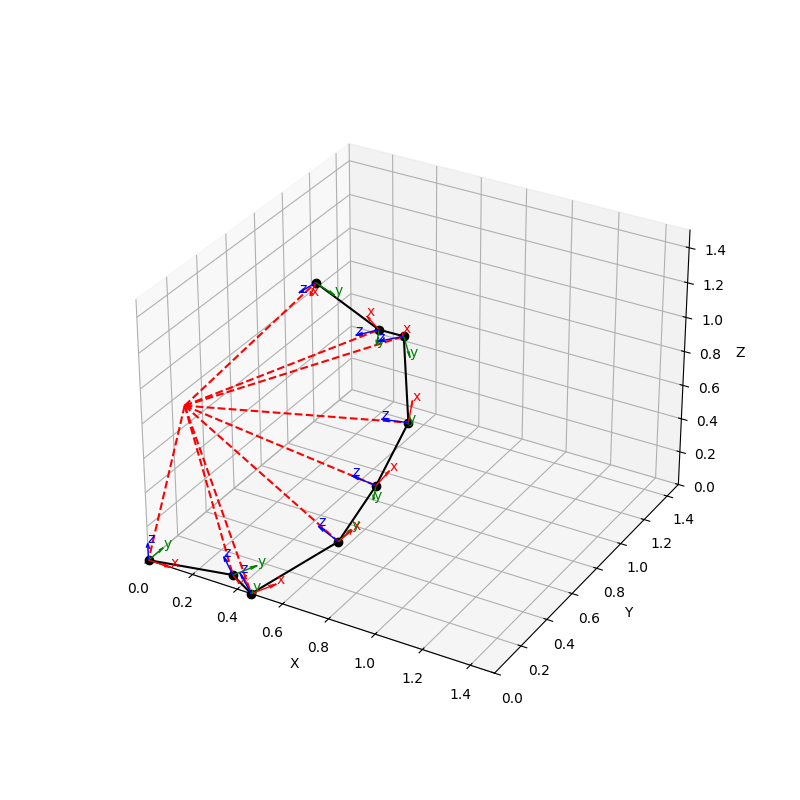
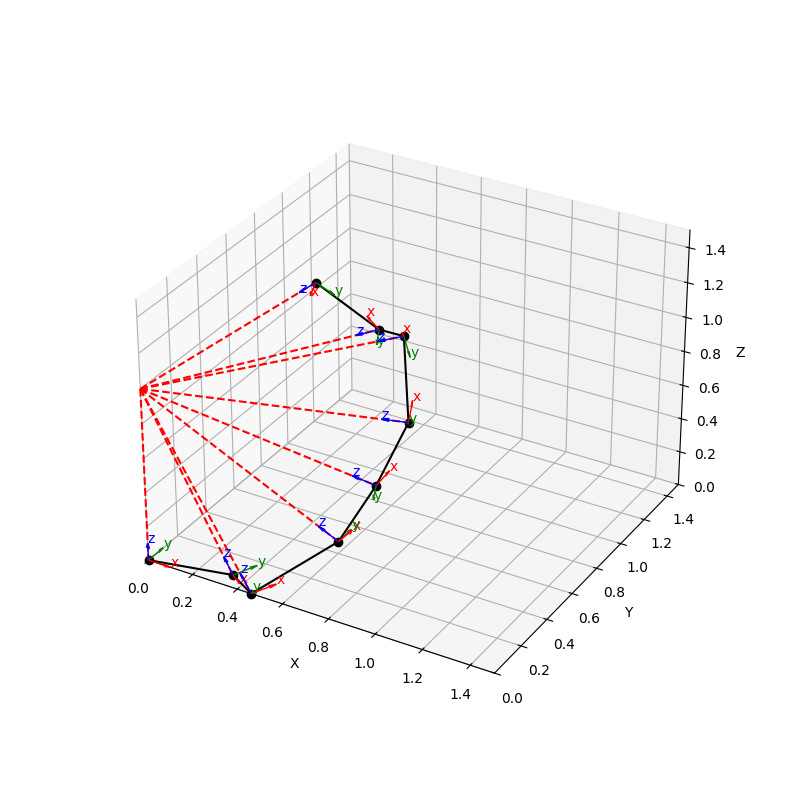
refactiring

diff --git a/fin_transformation.py b/fin_transformation.py
@@ -7,7 +7,6 @@ Theory taken from: FORWARD KINEMATICS: THE DENAVIT-HARTENBERG CONVENTION
 https://users.cs.duke.edu/~brd/Teaching/Bio/asmb/current/Papers/chap3-forward-kinematics.pdf
 
 TODO
-Fin magnitude bug 
 Update geometric parameters calculated automatically (including fold angle) when number of rays is changed
 Replace identity matrix with A0
 Double check matrix product is correct 
@@ -215,25 +214,13 @@ a = 2 * l * sin(alpha/2)
 
 print(f"a = {a}, h = {h}")
 
-
 # 3D cooridinates of the fin base 
-# fin_base = [0.39/2, 0, 0.98]
 fin_base = [a/2, 0, h]
-print(f"fin_base = {fin_base}")
 fin_base.append(1)
-print(f"fin_base = {fin_base}")
 fin_base = np.array(fin_base)
-print(f"fin_base = {fin_base}")
 fin_base = Ry(-alpha/2) @ fin_base
-print(f"fin_base = {fin_base}")
 fin_base = fin_base[:3]
 print(f"fin_base = {fin_base}")
-
-
-
-
-
-
 
 # Offset angle of each fin ray relative to previous, for translation
 # beta = -pi/16
@@ -247,7 +234,7 @@ beta = -alpha/2
 gamma = -alpha/2
 
 # Iterate through a sequence of joint angles, from fully open fin, to fully folded
-for i, theta in enumerate(np.linspace(0, pi, 1)):
+for i, theta in enumerate(np.linspace(0, pi, 10)):
 
     # Parameters for transformation matrix: beta, a, gamma, theta
     params = generate_transformation_params(beta, a, gamma, theta)
@@ -314,7 +301,6 @@ for i, theta in enumerate(np.linspace(0, pi, 1)):
 
     plt.savefig(f'fin_pose_{i}.png')
     plt.show()
-
 
 
 
